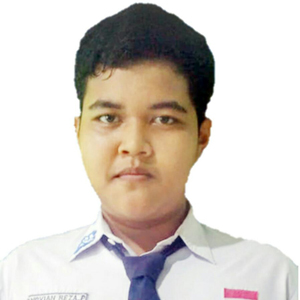
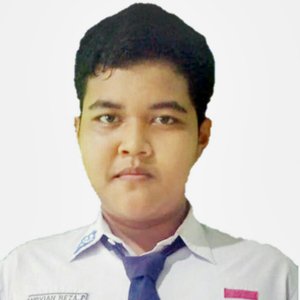
update warna

diff --git a/index.html b/index.html
@@ -8,7 +8,7 @@
     <!-- Bootstrap CSS -->
     <link href="https://cdn.jsdelivr.net/npm/bootstrap@5.0.0-beta2/dist/css/bootstrap.min.css" rel="stylesheet" integrity="sha384-BmbxuPwQa2lc/FVzBcNJ7UAyJxM6wuqIj61tLrc4wSX0szH/Ev+nYRRuWlolflfl" crossorigin="anonymous" />
     <!-- Bootstrap Icon -->
-    <link rel="stylesheet" href="https://cdn.jsdelivr.net/npm/bootstrap-icons@1.4.0/font/bootstrap-icons.css">
+    <link rel="stylesheet" href="https://cdn.jsdelivr.net/npm/bootstrap-icons@1.4.0/font/bootstrap-icons.css" />
     <!-- My CSS -->
     <link rel="stylesheet" href="css/style.css" />
 
@@ -16,7 +16,7 @@
   </head>
   <body id="home">
     <!-- Navbar -->
-    <nav class="navbar navbar-expand-lg navbar-dark bg-info shadow-sm fixed-top">
+    <nav class="navbar navbar-expand-lg navbar-dark shadow-sm fixed-top" style="background-color: #aeb0b6">
       <div class="container">
         <a class="navbar-brand" href="#">Reza</a>
         <button class="navbar-toggler" type="button" data-bs-toggle="collapse" data-bs-target="#navbarNavAltMarkup" aria-controls="navbarNavAltMarkup" aria-expanded="false" aria-label="Toggle navigation">
@@ -24,10 +24,10 @@
         </button>
         <div class="collapse navbar-collapse" id="navbarNavAltMarkup">
           <div class="navbar-nav ms-auto">
-            <a class="nav-link active" aria-current="page" href="#home">Home</a>
-            <a class="nav-link" href="#about">About</a>
-            <a class="nav-link" href="#projects">Projects</a>
-            <a class="nav-link" href="#contact">Contact</a>
+            <a class="nav-link active p5" aria-current="page" href="#home">Home</a>
+            <a class="nav-link p5" href="#about">About</a>
+            <a class="nav-link p5" href="#projects">Projects</a>
+            <a class="nav-link p5" href="#contact">Contact</a>
           </div>
         </div>
       </div>
@@ -35,13 +35,13 @@
     <!-- Akhir Navbar -->
 
     <!-- Jumbotron -->
-    <section class="jumbotron text-center">
-      <img src="img/hero.jpg" alt="Reza" width="200px" class="rounded-circle img-thumbnail" />
+    <section class="jumbotron text-center" style="background-color: #dde2e3">
+      <img src="img/hero.jpg" alt="Reza" width="200px" style="border: 6px solid #5c6272; border-radius: 50%; box-shadow: 0 0 10px 3px #9aacb8" class="" />
       <h1 class="display-4">Novian Reza</h1>
       <p class="lead">Student Lampung</p>
       <svg xmlns="http://www.w3.org/2000/svg" viewBox="0 0 1440 320">
         <path
-          fill="#fff"
+          fill="#9aacb8"
           fill-opacity="1"
           d="M0,160L40,160C80,160,160,160,240,160C320,160,400,160,480,170.7C560,181,640,203,720,192C800,181,880,139,960,133.3C1040,128,1120,160,1200,149.3C1280,139,1360,85,1400,58.7L1440,32L1440,320L1400,320C1360,320,1280,320,1200,320C1120,320,1040,320,960,320C880,320,800,320,720,320C640,320,560,320,480,320C400,320,320,320,240,320C160,320,80,320,40,320L0,320Z"
         ></path>
@@ -50,13 +50,13 @@
     <!-- Akhir Jumbotron -->
 
     <!-- About -->
-    <section id="about">
+    <section id="about" style="background-color: #9aacb8">
       <div class="container">
         <div class="row text-center">
           <div class="col mb-5">
-            <h2>About Me</h2>
+            <h2 style="color: white; text-shadow: 1.5px 1.5px 2px white">About Me</h2>
           </div>
-          <div class="row justify-content-center fs-5 text-center">
+          <div class="row justify-content-center fs-5 text-center" style="color: rgb(214, 214, 214)">
             <div class="col-md-4 mb-3">Lorem ipsum dolor sit amet consectetur adipisicing elit. Hic deleniti, nulla deserunt ad alias a! Harum error a vero ratione?</div>
             <div class="col-md-4">Lorem ipsum dolor sit amet, consectetur adipisicing elit. Nisi reprehenderit dolor dolores totam modi nihil id nostrum explicabo, quae excepturi blanditiis. Unde, deserunt optio reiciendis cum.</div>
           </div>
@@ -64,7 +64,7 @@
       </div>
       <svg xmlns="http://www.w3.org/2000/svg" viewBox="0 0 1440 320">
         <path
-          fill="#e2edff"
+          fill="#5c6272"
           fill-opacity="1"
           d="M0,32L40,64C80,96,160,160,240,165.3C320,171,400,117,480,80C560,43,640,21,720,42.7C800,64,880,128,960,133.3C1040,139,1120,85,1200,64C1280,43,1360,53,1400,58.7L1440,64L1440,320L1400,320C1360,320,1280,320,1200,320C1120,320,1040,320,960,320C880,320,800,320,720,320C640,320,560,320,480,320C400,320,320,320,240,320C160,320,80,320,40,320L0,320Z"
         ></path>
@@ -73,13 +73,13 @@
     <!-- Akhir About -->
 
     <!-- Project -->
-    <section id="projects">
+    <section id="projects" style="background-color: #5c6272">
       <div class="container text-center">
         <div class="row">
           <div class="col mb-5">
-            <h2>My Projects</h2>
+            <h2 style="color: white; text-shadow: 1.5px 1.5px 2px white">My Projects</h2>
           </div>
-          <div class="row ">
+          <div class="row">
             <div class="col-md-4 mb-3">
               <div class="card">
                 <img src="img/projects/edit.jpg" class="card-img-top img-fluid" alt="projects-1" />
@@ -125,7 +125,7 @@
       </div>
       <svg xmlns="http://www.w3.org/2000/svg" viewBox="0 0 1440 320">
         <path
-          fill="#fff"
+          fill="#3c455c"
           fill-opacity="1"
           d="M0,256L40,240C80,224,160,192,240,197.3C320,203,400,245,480,240C560,235,640,181,720,186.7C800,192,880,256,960,234.7C1040,213,1120,107,1200,96C1280,85,1360,171,1400,213.3L1440,256L1440,320L1400,320C1360,320,1280,320,1200,320C1120,320,1040,320,960,320C880,320,800,320,720,320C640,320,560,320,480,320C400,320,320,320,240,320C160,320,80,320,40,320L0,320Z"
         ></path>
@@ -134,79 +134,85 @@
     <!-- Akhir Project -->
 
     <!-- Contact -->
-    <section id="contact">
+    <section id="contact" style="background-color: #3c455c">
       <div class="container">
         <div class="row text-center mb-3">
           <div class="col">
-            <h2>Contact Me</h2>
+            <h2 style="color: white; text-shadow: 1.5px 1.5px 2px white">Contact Me</h2>
           </div>
         </div>
         <div class="row justify-content-center">
-            <div class="col-md-8">
-              <div class="alert alert-success alert-dismissible fade show d-none my-alert" role="alert">
-                <strong>Terima kasih!</strong> Pesan anda telah kami terima.
-                <button type="button" class="btn-close" data-bs-dismiss="alert" aria-label="Close"></button>
-              </div>
-                <form name="contact-form">
-                    <div class="mb-3">
-                      <label for="name" class="form-label">Nama Lengkap</label>
-                      <input type="text" class="form-control" id="name" aria-describedby="name" name="nama">
-                    </div>
-                    <div class="mb-3">
-                      <label for="email" class="form-label">Email</label>
-                      <input type="email" class="form-control" id="email" aria-describedby="email" name="email">
-                  </form>
-                  <div class="mb-3">
-                    <label for="pesan" class="form-label">Pesan</label>
-                    <textarea class="form-control" id="pesan" rows="3" name="pesan"></textarea>
-                  </div>
-                  <button type="submit" class="btn btn-primary btn-kirim">kirim</button>
-
-                  <button class="btn btn-primary btn-loading d-none" type="button" disabled>
-                    <span class="spinner-grow spinner-grow-sm " role="status" aria-hidden="true"></span>
-                    Loading...
-                  </button>
+          <div class="col-md-8">
+            <div class="alert alert-success alert-dismissible fade show d-none my-alert" role="alert">
+              <strong>Terima kasih!</strong> Pesan anda telah kami terima.
+              <button type="button" class="btn-close" data-bs-dismiss="alert" aria-label="Close"></button>
             </div>
+            <form name="contact-form">
+              <div class="mb-3">
+                <label for="name" class="form-label" style="color: white">Nama Lengkap</label>
+                <input type="text" class="form-control" id="name" aria-describedby="name" name="nama" />
+              </div>
+              <div class="mb-3">
+                <label for="email" class="form-label" style="color: white">Email</label>
+                <input type="email" class="form-control" id="email" aria-describedby="email" name="email" />
+              </div>
+            </form>
+            <div class="mb-3">
+              <label for="pesan" class="form-label" style="color: white">Pesan</label>
+              <textarea class="form-control" id="pesan" rows="3" name="pesan"></textarea>
+            </div>
+            <button type="submit" class="btn btn-primary btn-kirim">kirim</button>
+
+            <button class="btn btn-primary btn-loading d-none" type="button" disabled>
+              <span class="spinner-grow spinner-grow-sm" role="status" aria-hidden="true"></span>
+              Loading...
+            </button>
+          </div>
         </div>
       </div>
     </section>
-    <svg xmlns="http://www.w3.org/2000/svg" viewBox="0 0 1440 320"><path fill="#0dcaf0" fill-opacity="1" d="M0,160L40,133.3C80,107,160,53,240,58.7C320,64,400,128,480,160C560,192,640,192,720,170.7C800,149,880,107,960,117.3C1040,128,1120,192,1200,218.7C1280,245,1360,235,1400,229.3L1440,224L1440,320L1400,320C1360,320,1280,320,1200,320C1120,320,1040,320,960,320C880,320,800,320,720,320C640,320,560,320,480,320C400,320,320,320,240,320C160,320,80,320,40,320L0,320Z"></path></svg>
+    <svg style="background-color: #3c455c" xmlns="http://www.w3.org/2000/svg" viewBox="0 0 1440 320">
+      <path
+        fill="#2f3441"
+        fill-opacity="1"
+        d="M0,160L40,133.3C80,107,160,53,240,58.7C320,64,400,128,480,160C560,192,640,192,720,170.7C800,149,880,107,960,117.3C1040,128,1120,192,1200,218.7C1280,245,1360,235,1400,229.3L1440,224L1440,320L1400,320C1360,320,1280,320,1200,320C1120,320,1040,320,960,320C880,320,800,320,720,320C640,320,560,320,480,320C400,320,320,320,240,320C160,320,80,320,40,320L0,320Z"
+      ></path>
+    </svg>
     <!-- Akhir Contact -->
 
     <!-- footer -->
-    <footer class="bg-info text-white text-center pb-3">
-        <p>Created with <i class="bi bi-heart-fill text-primary"></i> by <a href="" class="text-white fw-bold">Novian Reza Pratama</a></p>
+    <footer class="text-white text-center pb-3" style="background-color: #2f3441">
+      <p>Created with <i class="bi bi-heart-fill text-danger"></i> by <a href="#" class="text-white fw-bold">Novian Reza Pratama</a></p>
     </footer>
     <!-- Akhir Footer -->
 
-
     <script src="https://cdn.jsdelivr.net/npm/bootstrap@5.0.0-beta2/dist/js/bootstrap.bundle.min.js" integrity="sha384-b5kHyXgcpbZJO/tY9Ul7kGkf1S0CWuKcCD38l8YkeH8z8QjE0GmW1gYU5S9FOnJ0" crossorigin="anonymous"></script>
     <script>
-  const scriptURL = 'https://script.google.com/macros/s/AKfycbzPPU017HJYf93yyRuNyAWJLy6w97E67Yu60RAbeFncYavUm91peY5lMuOOAXlK1pC2dw/exec'
-  const form = document.forms['contact-form']
-  const btnKirim = document.querySelector('.btn-kirim')
-  const btnLoading = document.querySelector('.btn-loading')
-  const myAlert = document.querySelector('.my-alert')
+      const scriptURL = "https://script.google.com/macros/s/AKfycbzPPU017HJYf93yyRuNyAWJLy6w97E67Yu60RAbeFncYavUm91peY5lMuOOAXlK1pC2dw/exec";
+      const form = document.forms["contact-form"];
+      const btnKirim = document.querySelector(".btn-kirim");
+      const btnLoading = document.querySelector(".btn-loading");
+      const myAlert = document.querySelector(".my-alert");
 
-  form.addEventListener('submit', e => {
-    e.preventDefault();
-    // ketika submit di click
-    // loading tampil kirim hilang
-    btnLoading.classList.toggle('d-none');
-    btnKirim.classList.toggle('d-none');
-    fetch(scriptURL, { method: 'POST', body: new FormData(form)})
-      .then(response => {
-        // Tampilkan kirim hilangkan loading
-        btnLoading.classList.toggle('d-none');
-        btnKirim.classList.toggle('d-none');
-        // tampilkan alert
-        myAlert.classList.toggle('d-none');
-        // reset form
-        form.reset();
-        console.log('Success!', response)
-      })
-      .catch(error => console.error('Error!', error.message))
-  })
-</script>
+      form.addEventListener("submit", (e) => {
+        e.preventDefault();
+        // ketika submit di click
+        // loading tampil kirim hilang
+        btnLoading.classList.toggle("d-none");
+        btnKirim.classList.toggle("d-none");
+        fetch(scriptURL, { method: "POST", body: new FormData(form) })
+          .then((response) => {
+            // Tampilkan kirim hilangkan loading
+            btnLoading.classList.toggle("d-none");
+            btnKirim.classList.toggle("d-none");
+            // tampilkan alert
+            myAlert.classList.toggle("d-none");
+            // reset form
+            form.reset();
+            console.log("Success!", response);
+          })
+          .catch((error) => console.error("Error!", error.message));
+      });
+    </script>
   </body>
 </html>

diff --git a/css/style.css b/css/style.css
@@ -1,6 +1,5 @@
 .jumbotron {
   padding-top: 6rem;
-  background-color: #e2edff;
 }
 
 .jumbotron h1 {
@@ -11,10 +10,25 @@
   background-color: #e2edff;
 }
 
+.card-body {
+  background-color: #aeb0b6;
+}
+.card-text {
+  color: #fff;
+}
+
 section {
   padding-top: 5rem;
 }
 
 a {
   text-decoration: none;
+}
+
+.p5 {
+  margin-right: 20px;
+}
+
+.form-svg {
+  width: 100%;
 }
